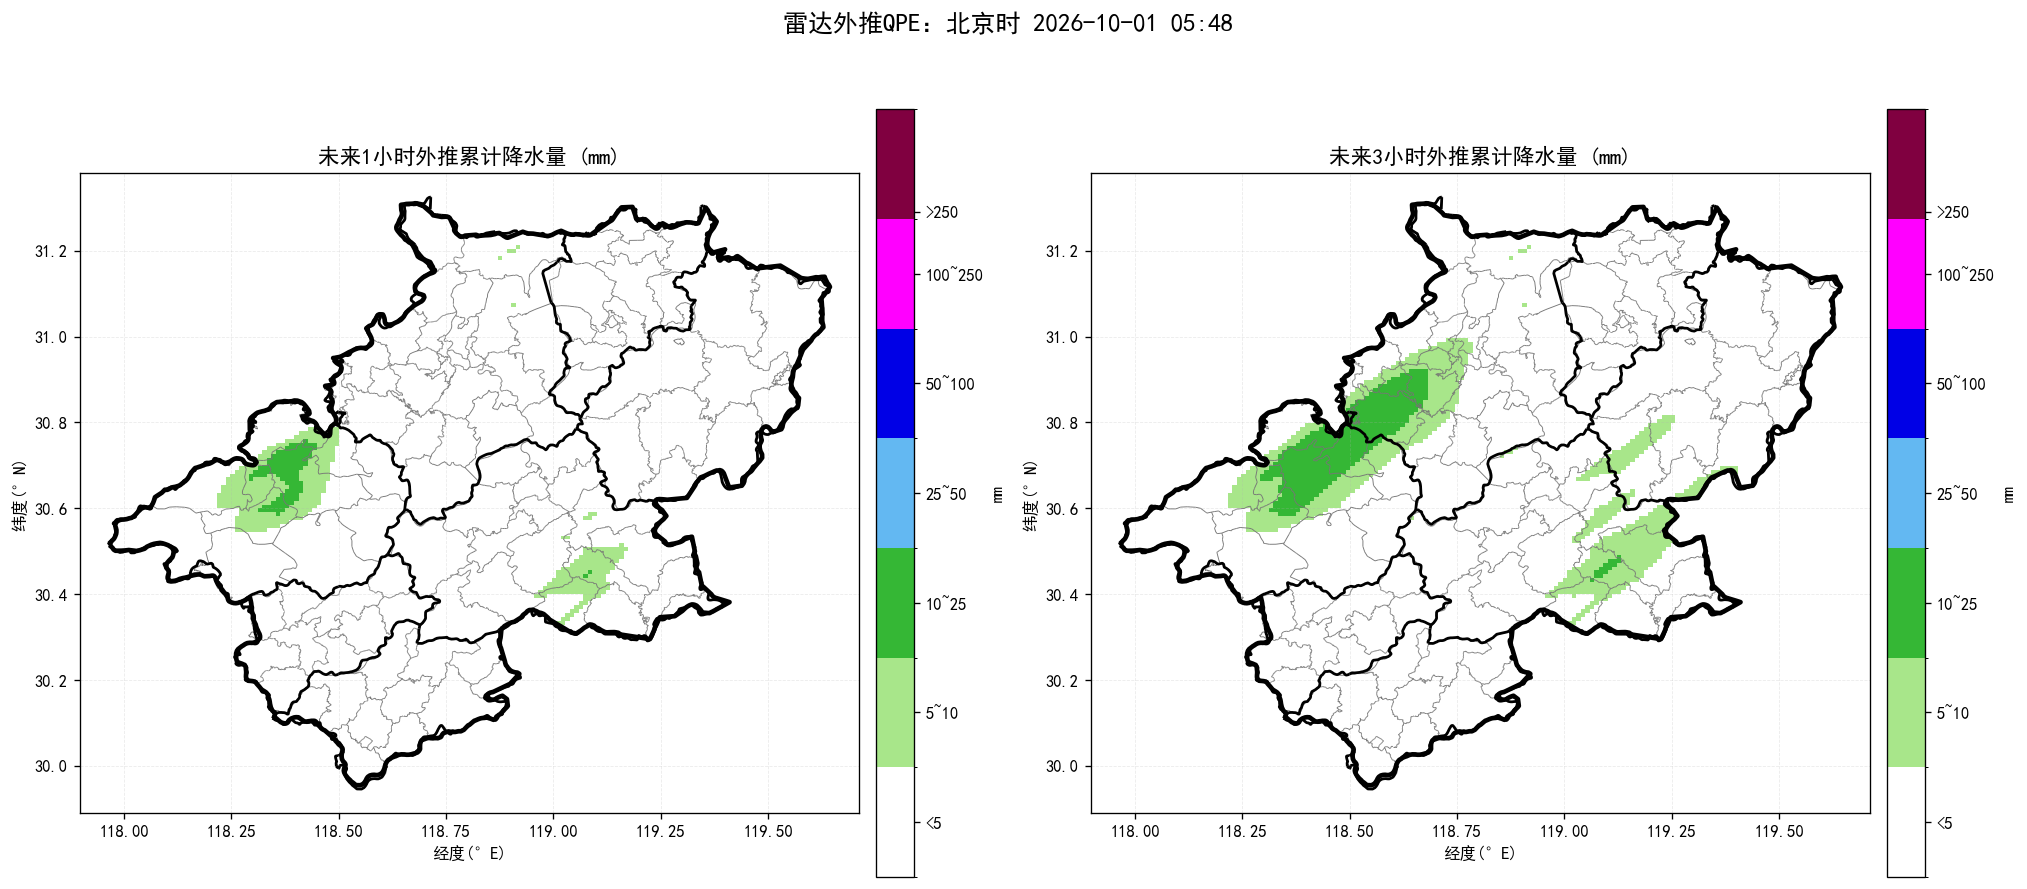
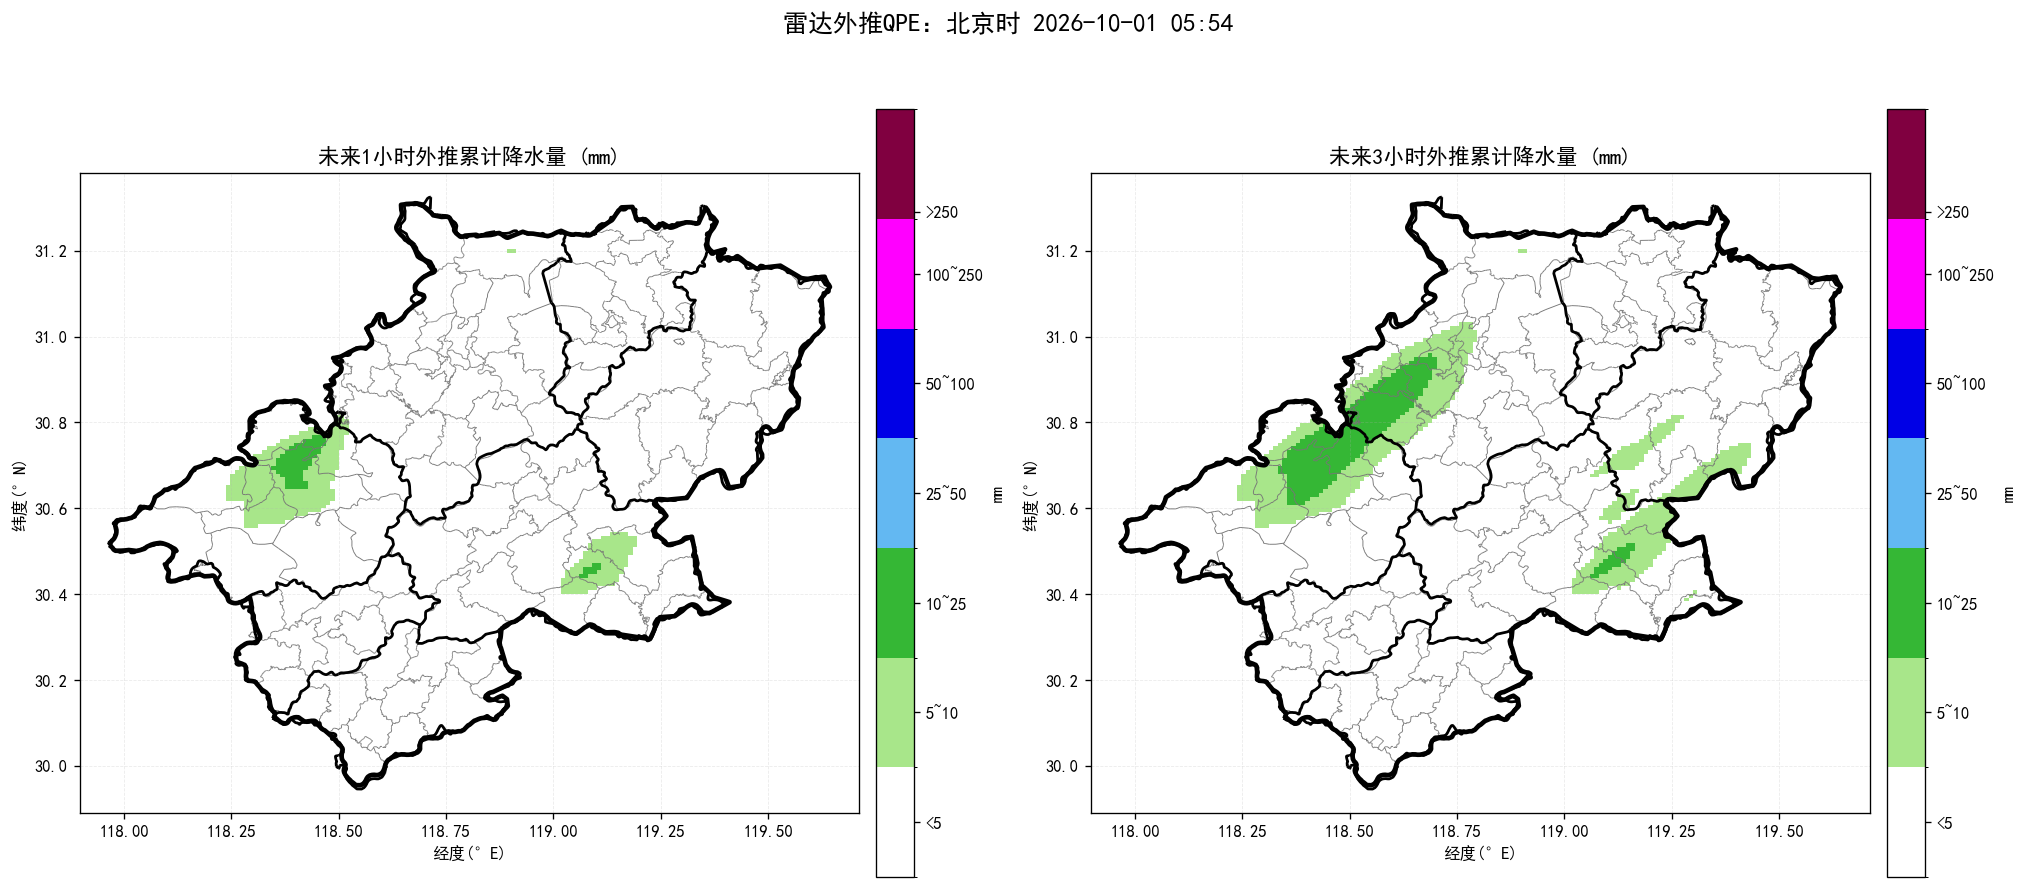
update nowcast products

diff --git a/index.html b/index.html
@@ -14,14 +14,14 @@ img.product{display:block;width:100%;height:auto;margin:10px auto 26px;border:1p
 .footer{font-size:13px;color:#777;text-align:center;margin-top:30px}
 @media(max-width:700px){.sheet{margin:0;padding:18px 15px}.alert-title{font-size:22px}.county-line{font-size:17px}.prob{font-size:18px}}
 </style></head><body><main class="sheet">
-<div class="time">起报时间：北京时 2026-10-01 05:48</div>
+<div class="time">起报时间：北京时 2026-10-01 05:54</div>
 <div class="alert-title">未来一小时降水量超过 20 毫米的乡镇：</div><div class="county-line">无</div>
 <div class="alert-title">未来三小时降水量超过 50 毫米的乡镇：</div><div class="county-line">无</div>
 <div class="alert-title">未来三小时雷暴大风（组合反射率 > 55 dBZ）的乡镇：</div><div class="county-line">无</div>
-<div class="prob">最大降水量概率预估：宣城市范围内未来三小时降水偏小，最大预报约17.0毫米，暂不进行50/80/100毫米概率预估。</div>
-<div class="section-title">未来降水预报图：</div><img class="product auto-refresh-product" data-src="短临降水预报.png" src="短临降水预报.png?v=20261001055429" alt="未来降水预报图">
-<div class="section-title">未来三小时组合反射率图：</div><img class="product auto-refresh-product" data-src="未来3小时组合反射率.png" src="未来3小时组合反射率.png?v=20261001055429" alt="未来三小时组合反射率图">
-<div class="section-title">未来三小时雷暴大风图：</div><img class="product auto-refresh-product" data-src="未来3小时雷暴大风.png" src="未来3小时雷暴大风.png?v=20261001055429" alt="未来三小时雷暴大风图">
+<div class="prob">最大降水量概率预估：宣城市范围内未来三小时降水偏小，最大预报约17.1毫米，暂不进行50/80/100毫米概率预估。</div>
+<div class="section-title">未来降水预报图：</div><img class="product auto-refresh-product" data-src="短临降水预报.png" src="短临降水预报.png?v=20261001060000" alt="未来降水预报图">
+<div class="section-title">未来三小时组合反射率图：</div><img class="product auto-refresh-product" data-src="未来3小时组合反射率.png" src="未来3小时组合反射率.png?v=20261001060000" alt="未来三小时组合反射率图">
+<div class="section-title">未来三小时雷暴大风图：</div><img class="product auto-refresh-product" data-src="未来3小时雷暴大风.png" src="未来3小时雷暴大风.png?v=20261001060000" alt="未来三小时雷暴大风图">
 <div class="footer">三张产品图每 60 秒自动刷新一次；每次请求自动附加新的URL参数以绕过缓存。</div>
 <script>
 (function() {
